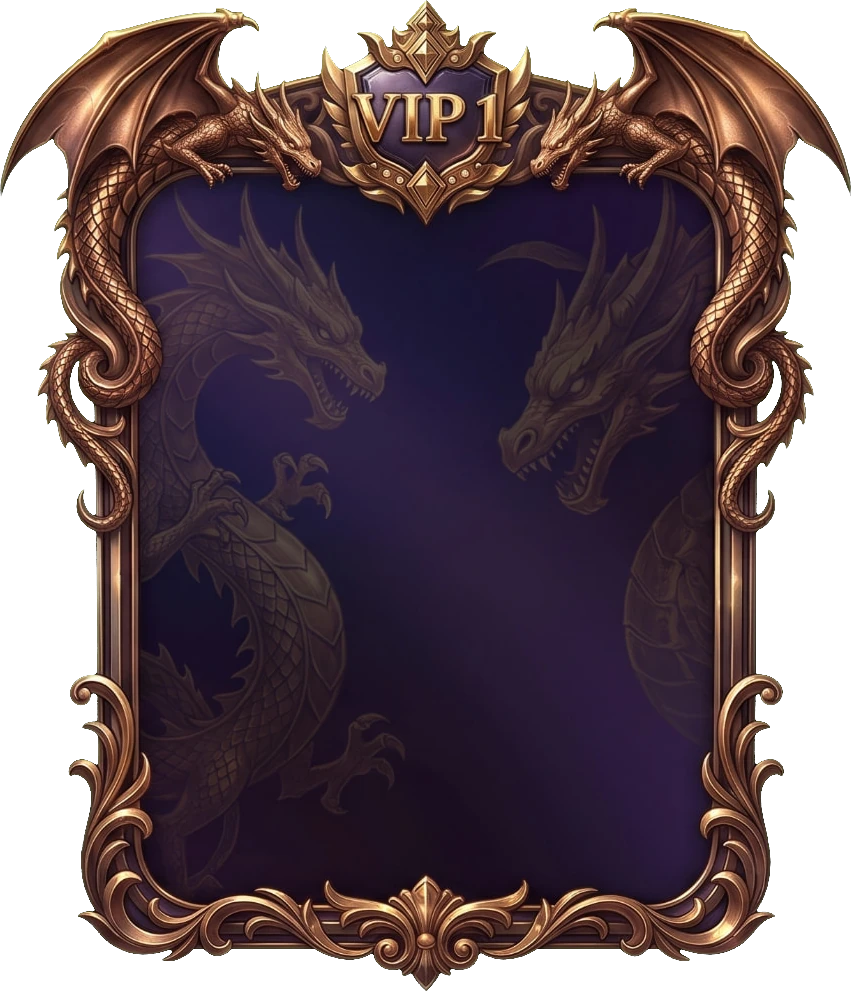
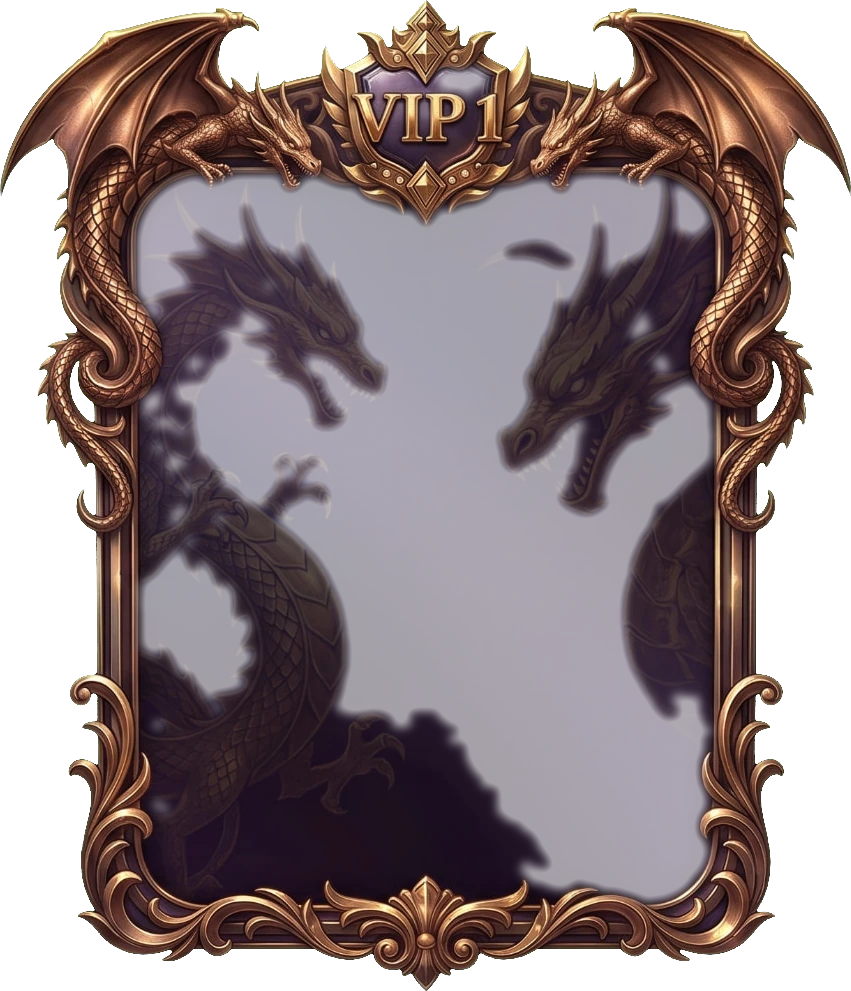
VIP 1 profile card: full-width, bottom-anchored

diff --git a/src/components/VipProfileCard.tsx b/src/components/VipProfileCard.tsx
@@ -6,13 +6,13 @@ import { cn } from "@/lib/utils";
  * The popped-up profile card for a VIP tier: the tier's picture is the whole card and the
  * member's details sit inside the picture's empty inner window (insets live in vip-art),
  * so the artwork's frame, crest and dragons stay intact at every screen size.
+ * The window itself is see-through in the picture, so the room shows behind the details.
  */
-export function VipProfileCard({ art, avatar, name, id, children, className }: {
+export function VipProfileCard({ art, avatar, name, subCard, className }: {
   art: ProfileCardArt;
   avatar: ReactNode;
   name: string;
-  id: string;
-  children?: ReactNode;
+  subCard?: ReactNode;
   className?: string;
 }) {
   const { left, right, top, bottom } = art.canvas;
@@ -23,16 +23,19 @@ export function VipProfileCard({ art, avatar, name, id, children, className }: {
         className="absolute flex flex-col items-center text-center"
         style={{ left: `${left}%`, right: `${right}%`, top: `${top}%`, bottom: `${bottom}%` }}
       >
-        <div className="aspect-square w-[40%] shrink-0 overflow-hidden rounded-full shadow-[0_0_16px_-4px] shadow-rank-gold/60 ring-2 ring-rank-gold/70">
+        <div className="aspect-square w-[42%] shrink-0 overflow-hidden rounded-full shadow-[0_0_16px_-4px] shadow-rank-gold/60 ring-2 ring-rank-gold/70">
           {avatar}
         </div>
         <div className="mt-2 w-full min-w-0">
-          <div className="truncate font-display text-base font-extrabold text-rank-gold [text-shadow:0_1px_2px_oklch(0.1_0.03_50/0.9)]">
+          <div className="truncate font-display text-lg font-extrabold text-on-media [text-shadow:0_1px_3px_oklch(0.1_0.03_50/0.95)]">
             {name}
           </div>
-          <div className="mt-0.5 text-[11px] text-muted-foreground" dir="ltr">ID:{id}</div>
         </div>
-        {children ? <div className="mt-auto grid w-full gap-1.5 px-[9%] pb-1">{children}</div> : null}
+        {subCard ? (
+          <div className="mt-auto w-full px-[6%] pb-[3%]">
+            <div className="rounded-2xl bg-overlay/70 px-3 py-2.5 backdrop-blur-[2px]">{subCard}</div>
+          </div>
+        ) : null}
       </div>
     </div>
   );

diff --git a/src/routes/room.$publicId.tsx b/src/routes/room.$publicId.tsx
@@ -442,14 +442,21 @@ function RoomPage() {
               </button>
               <VipProfileCard art={cardArt}
                 avatar={<Avatar person={picked} className="size-full text-3xl" />}
-                name={picked.display_name} id={shownId(picked)}>
-                <Button asChild size="sm" className="h-9 w-full rounded-full bg-rank-gold font-bold text-vip-on hover:bg-rank-gold/90">
-                  <Link to="/user/$publicId" params={{ publicId: String(picked.public_id) }}>الملف الشخصي</Link>
-                </Button>
-                {picked.auth_id !== me && picked.auth_id !== owner?.auth_id && (
-                  <Button size="sm" variant="destructive" onClick={() => onKick(picked)} className="h-9 w-full rounded-full">طرد من الروم</Button>
-                )}
-              </VipProfileCard>
+                name={picked.display_name}
+                subCard={
+                  <div className="flex items-center justify-center gap-2">
+                    <span className="text-xs text-on-media/80" dir="ltr">ID:{shownId(picked)}</span>
+                    <VipBadge level={activeVipLevel(picked)} />
+                  </div>
+                } />
+            </div>
+            <div className="mx-auto flex w-full max-w-md items-center gap-2 rounded-t-2xl bg-background px-3 py-2.5">
+              <Button asChild size="sm" className="h-9 flex-1 rounded-full bg-rank-gold font-bold text-vip-on hover:bg-rank-gold/90">
+                <Link to="/user/$publicId" params={{ publicId: String(picked.public_id) }}>الملف الشخصي</Link>
+              </Button>
+              {picked.auth_id !== me && picked.auth_id !== owner?.auth_id && (
+                <Button size="sm" variant="destructive" onClick={() => onKick(picked)} className="h-9 flex-1 rounded-full">طرد من الروم</Button>
+              )}
             </div>
           </SheetContent>
         </Sheet>

diff --git a/AGENTS.md b/AGENTS.md
@@ -38,6 +38,7 @@ use the editor.
 - Member search on the home page looks up profiles by normal public ID or special ID only (src/lib/user-search.ts), reading through the signed-in client under the existing profiles read policy, so no extra database access is needed.
 - CP artwork uses a cropped transparent asset with percentage-based avatar positioning inside its right frame, so the gold frames and center heart remain intact at every screen width. The right frame always holds the account picture: the avatar when one exists, otherwise a first-letter fallback, so the artwork's person icon is never left exposed.
 - VIP badge, entrance and popped-up profile-card pictures are repo files in src/assets/vip/ mapped in src/lib/vip-art.ts; entrance bars are keyed by the tier's entrance key (same as vip_tiers.entrance) with the name-plate box stored per picture, and profile cards store the empty inner window's insets per picture, so a tier shows its own art only once its picture exists.
+- When uploading files to GitHub through the connector, create each blob with the Blobs API and put the returned sha in the tree; base64 passed as the tree's content field gets stored as literal text, corrupting the file.
 - Party rooms live in supabase/004_rooms.sql: members only read the room tables and every change goes through security-definer functions (start_party, enter_room, take_seat, send_room_message, kick_from_room…), so seat, lock and kick rules stay server-side; presence is a last_seen heartbeat, and the room page reaches a room by its owner's public ID (one room per member). src/lib/rooms.ts mirrors the seat counts and themes and must change together with the SQL.
 - Room "came in" lines and entrance bars for other members are detected in the browser by comparing who is present between refreshes (no extra SQL), so they show only to people already inside and are not saved.
 - Coins thrown inside a room live in supabase/005_room_coins.sql: the room_coins table is closed to the app (RLS on, no policies, no app-role grants), so both directions go through security-definer functions — throw_room_coins debits the thrower's own profiles.coins and room_coins_total reads the room sum — and src/lib/rooms.ts mirrors the throw amounts for display only.

diff --git a/roadmap.md b/roadmap.md
@@ -68,4 +68,4 @@
 - [ ] Push every finished update to hmdagency3-boop/voli as soon as it is done (user is low on credits).
 
 # VIP 1 profile card
-- [ ] Popped-up profile card for VIP 1 members uses the dragon frame, in the same bottom position as everyone else's card.
+- [x] Popped-up profile card for VIP 1 members uses the dragon frame, full screen width, anchored at the bottom like everyone else's card.
